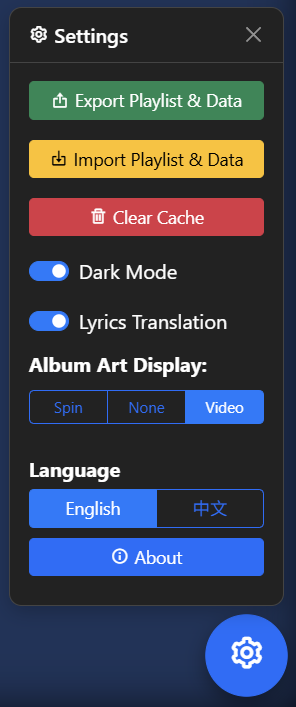
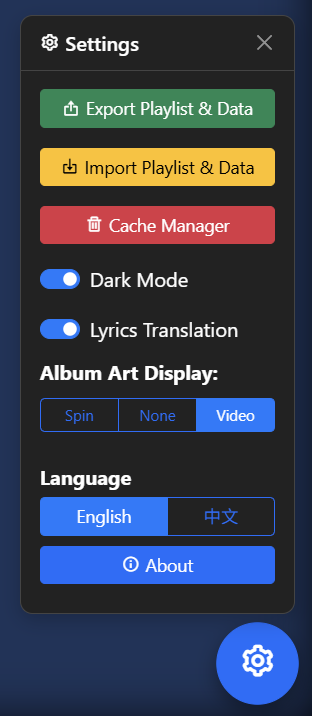
Rename "Clear Cache" to "Cache Manager" in UI and translations for consistency

Changed region(s): [[0.0304, 0.0, 0.973, 0.9958]]

diff --git a/index.html b/index.html
@@ -234,8 +234,8 @@
                     <button id="settingsImportBtn" class="btn btn-warning btn-sm w-100 mb-2" title="Import Playlist & Data">
                         <i class='bx bx-import'></i> Import Playlist & Data
                     </button>
-                    <button id="settingsClearCacheBtn" class="btn btn-danger btn-sm w-100 mb-2" title="Clear Cache">
-                        <i class='bx bx-trash'></i> Clear Cache
+                    <button id="settingsClearCacheBtn" class="btn btn-danger btn-sm w-100 mb-2" title="Cache Manager">
+                        <i class='bx bx-trash'></i> Cache Manager
                     </button>
                     <div class="form-check form-switch dark-mode-switch mb-2">
                         <input class="form-check-input darkModeToggle" type="checkbox" id="darkModeToggle">

diff --git a/script.js b/script.js
@@ -3050,7 +3050,7 @@ const translations = {
     importTitle: "Import Playlist & Data",
     exportPlaylist: "Export Playlist & Data",
     importPlaylist: "Import Playlist & Data",
-    clearCache: "Clear Cache",
+    clearCache: "Cache Manager",
     albumArtSpin: "Album Art Spin",
     showLyrics: "Lyrics",
     darkMode: "Dark Mode",
@@ -3219,7 +3219,7 @@ const translations = {
     importTitle: "导入播放列表和数据",
     exportPlaylist: "导出播放列表和数据",
     importPlaylist: "导入播放列表和数据",
-    clearCache: "清除缓存",
+    clearCache: "缓存管理",
     albumArtSpin: "唱片旋转",
     showLyrics: "歌词",
     darkMode: "深色模式",

diff --git a/README.md b/README.md
@@ -103,7 +103,7 @@ If you don't want to set up the YouTube API, you can still:
 15. **Import Playlist & Data**: Import playlist and data (Dark mode, Album Art spin settings & Lyrics settings) from JSON or TXT file
 16. **Export Playlist & Data**: Export playlist and data (Dark mode, Album Art spin settings & Lyrics settings) to TXT file
 17. **Album Art Display**: Select Album Art Display option to switch Spin, None or Video mode.
-18. **Delete Cache**: Delete cache from browser storage
+18. **Cache Manager**: Delete cache from browser storage
 
 ## 🔧 GitHub Actions Workflow
 
